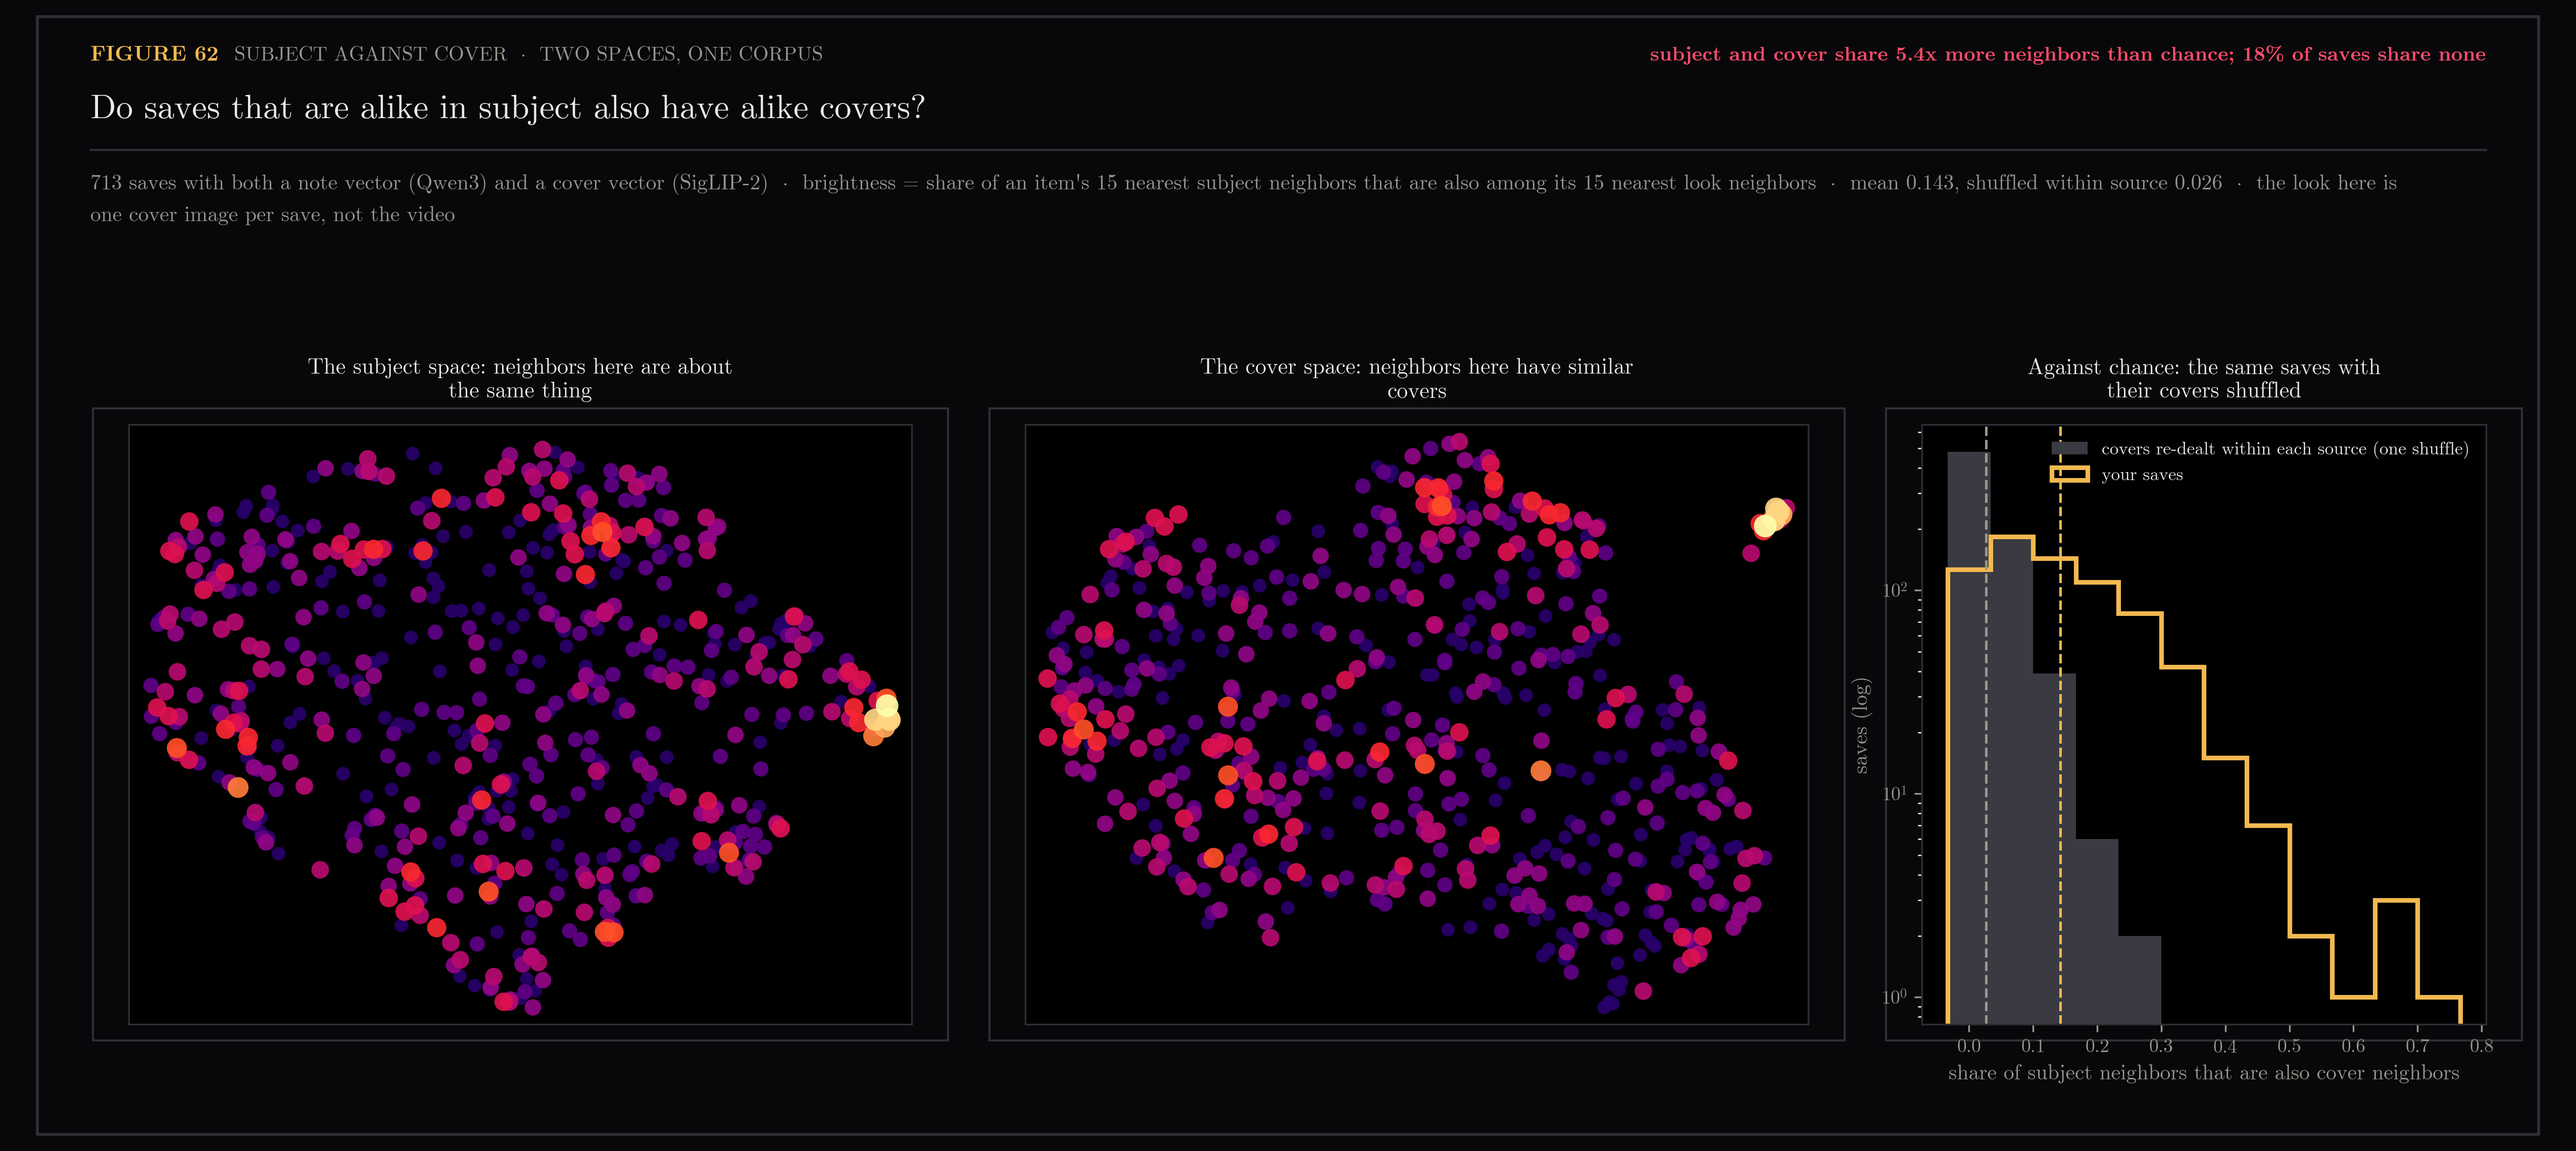
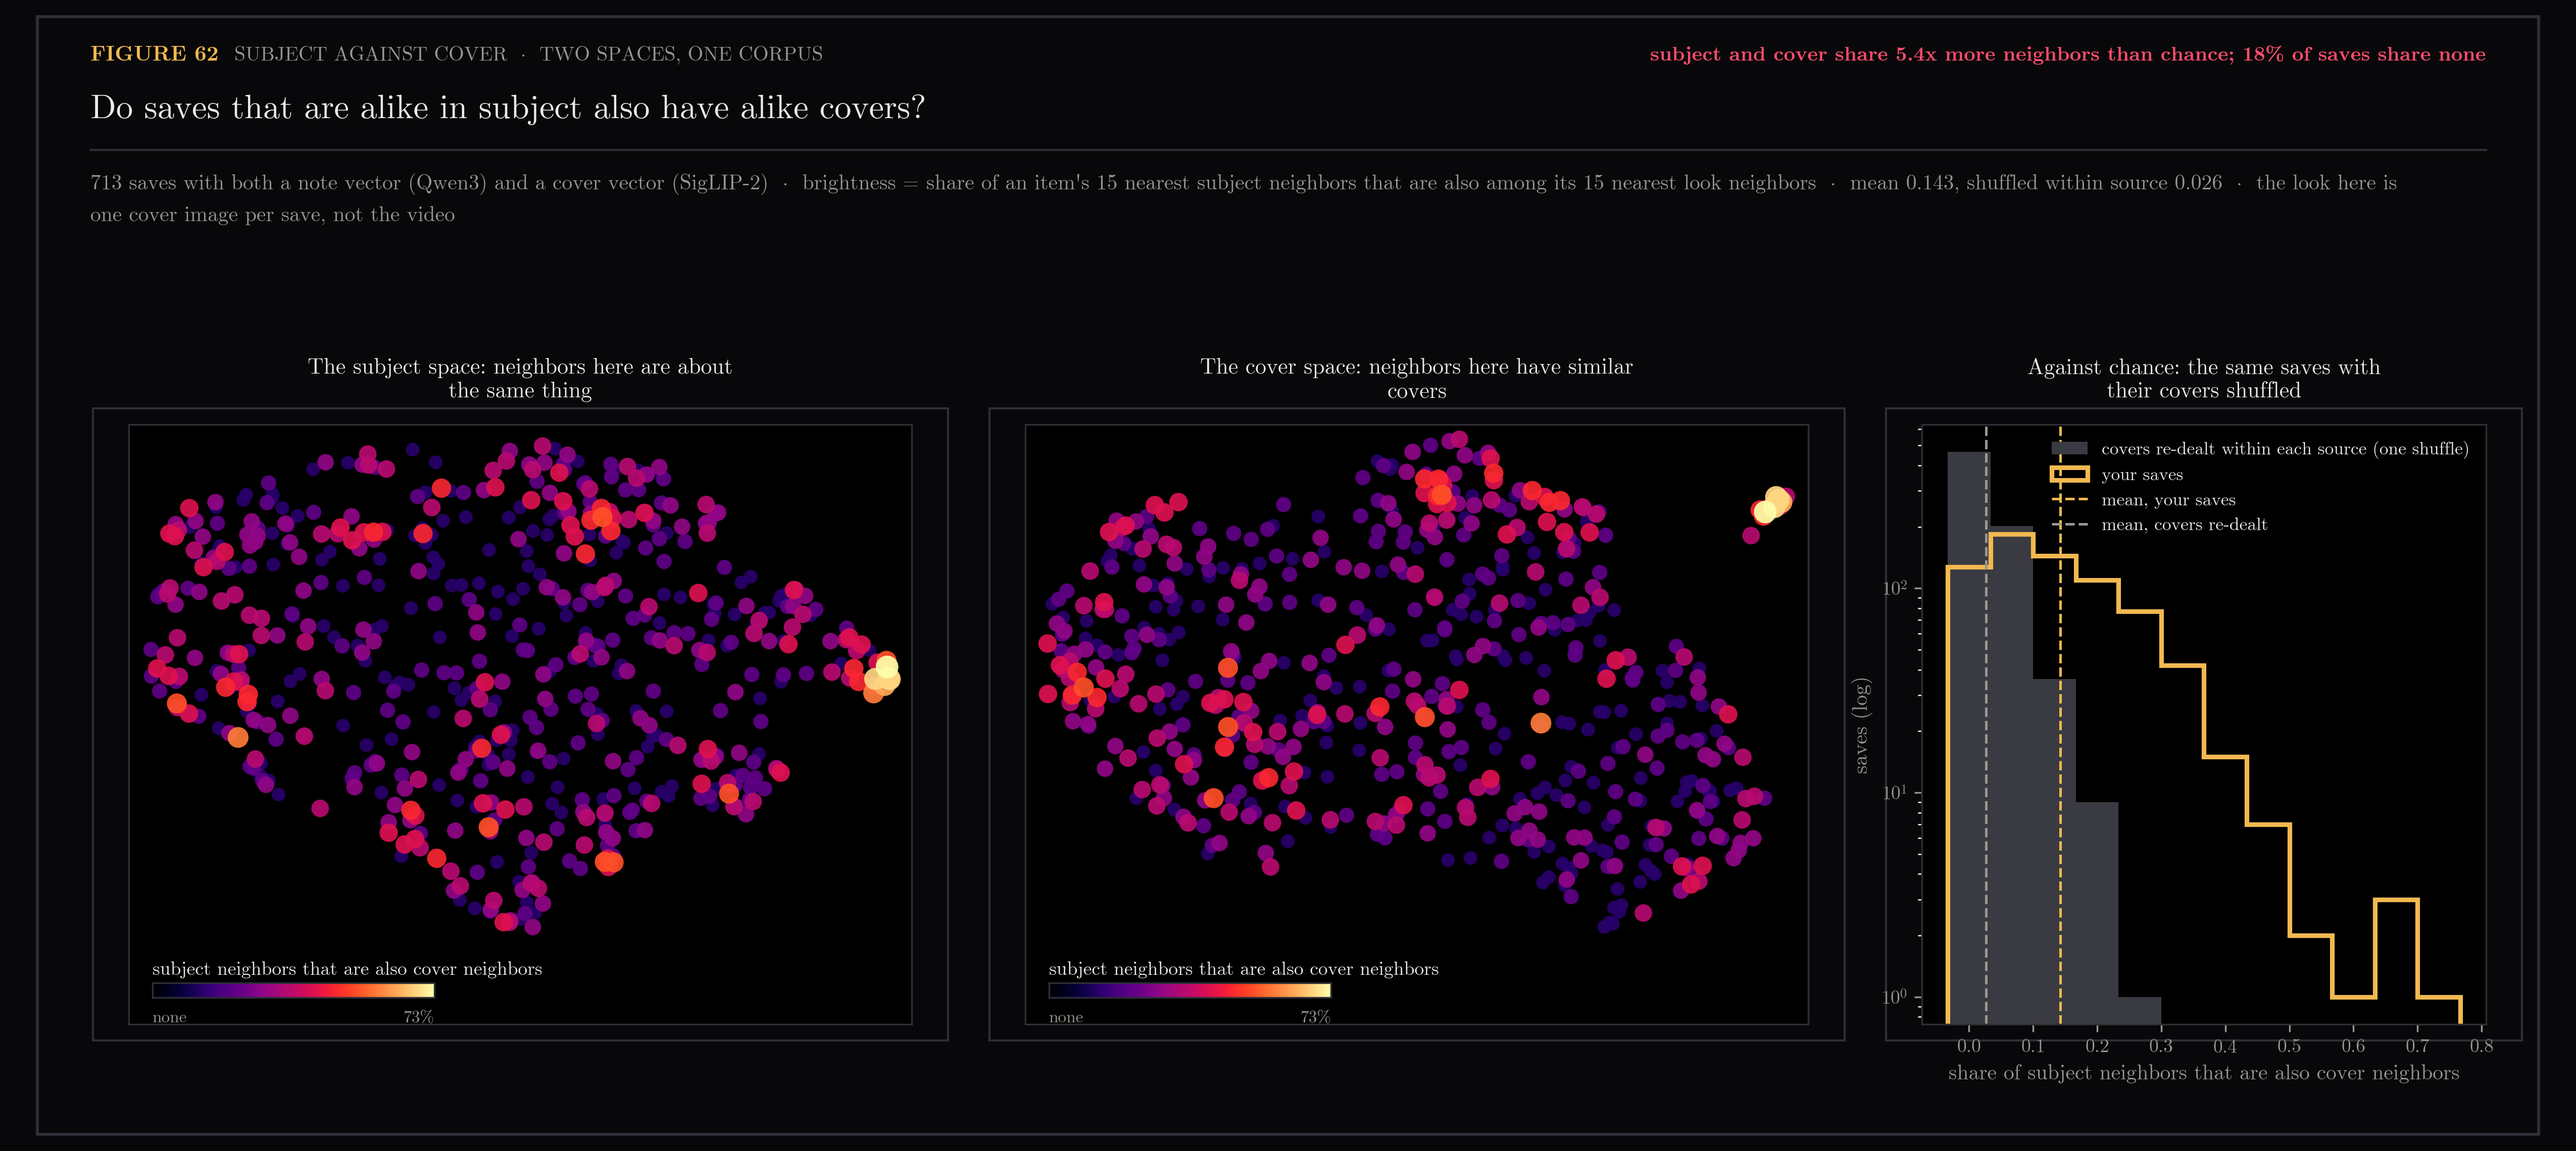
style(figures): every figure carries a legend — ramp_legend for ramp-colored panels, sections 62 and 63 redrawn
Owner's rule: all figures get legends. The house style said a legend had to
earn its place, which left ramp-colored maps with their meaning only in the
meta line. ramp_legend() draws a labeled swatch of the ramp inside the
panel and makes room under the data for it. Dashed reference lines now
carry legend entries and the neighbor sheet a key for its color bars.

Section 62's within-source shuffle iterated a set of source names, so the
null drew in a different order per run; it iterates them sorted now.

diff --git a/scripts/plot_assets.py b/scripts/plot_assets.py
@@ -226,6 +226,45 @@ def style_axes(ax) -> None:
     ax.yaxis.label.set_color(MUTED)
 
 
+def ramp_legend(ax, cmap, title: str, low: str, high: str, *, room: float = 0.16, at=(0.03, 0.045)):
+    """Legend for a panel colored by a ramp: a labeled swatch of the ramp
+    inside the panel. `room` grows the y-range downward first so the key sits
+    under the data, not on it; pass 0 when the panel already has empty space
+    at `at` (axes fraction)."""
+    if room:
+        lo, hi = ax.get_ylim()
+        ax.set_ylim(lo - room * (hi - lo), hi)
+    key = ax.inset_axes((at[0], at[1], 0.36, 0.024))
+    key.imshow(np.linspace(0, 1, 256)[None, :], cmap=cmap, aspect="auto", vmin=0, vmax=1)
+    key.set_xticks([])
+    key.set_yticks([])
+    for spine in key.spines.values():
+        spine.set_color(FRAME)
+    key._is_colorbar = True
+    key.set_title(title, color=TEXT, fontsize=TICK_SIZE, loc="left", pad=4)
+    key.text(
+        0,
+        -0.9,
+        low,
+        transform=key.transAxes,
+        color=MUTED,
+        fontsize=TICK_SIZE - 1,
+        ha="left",
+        va="top",
+    )
+    key.text(
+        1,
+        -0.9,
+        high,
+        transform=key.transAxes,
+        color=MUTED,
+        fontsize=TICK_SIZE - 1,
+        ha="right",
+        va="top",
+    )
+    return key
+
+
 def frame_panels(fig, pad: float = PANEL_PAD) -> None:
     """Border every panel and the figure itself. 3D axes report a bbox much
     larger than the drawn cube, so the frame is drawn on the subplot cell —

diff --git a/scripts/two_spaces.py b/scripts/two_spaces.py
@@ -24,6 +24,7 @@ from plot_assets import (
     frame_panels,
     panel_title,
     punch,
+    ramp_legend,
     saturated_magma,
     style_axes,
     verdict,
@@ -94,7 +95,7 @@ obs = overlap(nm, nl)
 # Null: re-pair looks with meanings inside each source, so thumbnail-vs-reel style cannot fake agreement.
 def shuffled_within():
     p = np.arange(n)
-    for k in set(kind):
+    for k in sorted(set(kind)):
         idx = np.where(kind == k)[0]
         p[idx] = rng.permutation(idx)
     return p
@@ -231,6 +232,9 @@ for j, (E, name) in enumerate(
     ax.set_xticks([])
     ax.set_yticks([])
     ax.margins(0.03)
+    ramp_legend(
+        ax, cmap, "subject neighbors that are also cover neighbors", "none", f"{obs.max():.0%}"
+    )
     panel_title(ax, name)
 ax = fig.add_subplot(gs[2])
 style_axes(ax)
@@ -241,8 +245,8 @@ inv[perm] = np.arange(n)
 one_null = overlap(nm, inv[nl[perm]])
 ax.hist(one_null, bins=bins, color=DIM, label="covers re-dealt within each source (one shuffle)")
 ax.hist(obs, bins=bins, color=GOLD, histtype="step", linewidth=2.2, label="your saves")
-ax.axvline(obs.mean(), color=GOLD, lw=1.2, ls="--")
-ax.axvline(null_w.mean(), color=MUTED, lw=1.2, ls="--")
+ax.axvline(obs.mean(), color=GOLD, lw=1.2, ls="--", label="mean, your saves")
+ax.axvline(null_w.mean(), color=MUTED, lw=1.2, ls="--", label="mean, covers re-dealt")
 ax.set_yscale("log")
 ax.set_xlabel("share of subject neighbors that are also cover neighbors")
 ax.set_ylabel("saves (log)")

diff --git a/scripts/look_neighbors_sheet.py b/scripts/look_neighbors_sheet.py
@@ -74,7 +74,23 @@ for ax, (k, kind, color) in zip(axes, rows, strict=True):
         pad=2,
     )
     ax.plot([0, 0], [0, 180], color=color, lw=6, solid_capstyle="butt")
-fig.subplots_adjust(left=0.01, right=0.99, top=0.985, bottom=0.005, hspace=0.42)
+from matplotlib.lines import Line2D
+
+keys = [
+    ("seed video", GOLD),
+    (f"its {NEAR} nearest by measured look (pixel statistics)", CYAN),
+    (f"its {NEAR} nearest by what is shown (image model)", MUTED),
+]
+fig.legend(
+    handles=[Line2D([0], [0], color=c, lw=7, label=t) for t, c in keys],
+    loc="upper left",
+    bbox_to_anchor=(0.01, 0.999),
+    ncol=3,
+    frameon=False,
+    labelcolor=TEXT,
+    fontsize=10,
+)
+fig.subplots_adjust(left=0.01, right=0.99, top=0.972, bottom=0.005, hspace=0.42)
 OUT.mkdir(parents=True, exist_ok=True)
 fig.savefig(OUT / "look_neighbors.png", dpi=200, facecolor=BG)
 print("saved", OUT / "look_neighbors.png", [title[ids[s]][:50] for s in seeds])

diff --git a/scripts/three_spaces.py b/scripts/three_spaces.py
@@ -29,6 +29,7 @@ from plot_assets import (
     frame_panels,
     panel_title,
     punch,
+    ramp_legend,
     saturated_magma,
     style_axes,
     verdict,
@@ -191,6 +192,7 @@ for j, k in enumerate(names):
     ax.set_xticks([])
     ax.set_yticks([])
     ax.margins(0.04)
+    ramp_legend(ax, cmap, "position in the subject map", "left edge", "right edge")
     panel_title(ax, names[k], width=30)
 ax = fig.add_subplot(bars[0])
 style_axes(ax)

diff --git a/docs/assets/README.md b/docs/assets/README.md
@@ -126,9 +126,12 @@ import; `axes.unicode_minus` is off so minus signs render in the serif face.
   matplotlib shrinks the axes to satisfy it, which mattes the sides and
   reintroduces the gap; proportion the figure so square cells fit, and let
   `zoom` eat the default 3D margin.
-- **Legends earn their place.** If a legend is the only way to tell two series
-  apart, the encoding is too weak — separate them by position or by panel
-  first. A legend names what the geometry already distinguishes.
+- **Every figure carries a legend.** Owner's rule, 2026-11-22. Series get a
+  legend, a ramp gets `ramp_legend()` (a labeled swatch saying what dark and
+  bright mean), dashed reference lines get an entry, and a frame sheet gets a
+  key for its color bars. The geometry should still separate the series by
+  position or panel first; the legend names what the geometry shows and is
+  never left out because the encoding seems obvious.
 - **The meta line is part of the design.** It carries the measured quantities
   (counts, bandwidths, scores). A figure whose title claims something its meta
   line does not quantify is incomplete.
